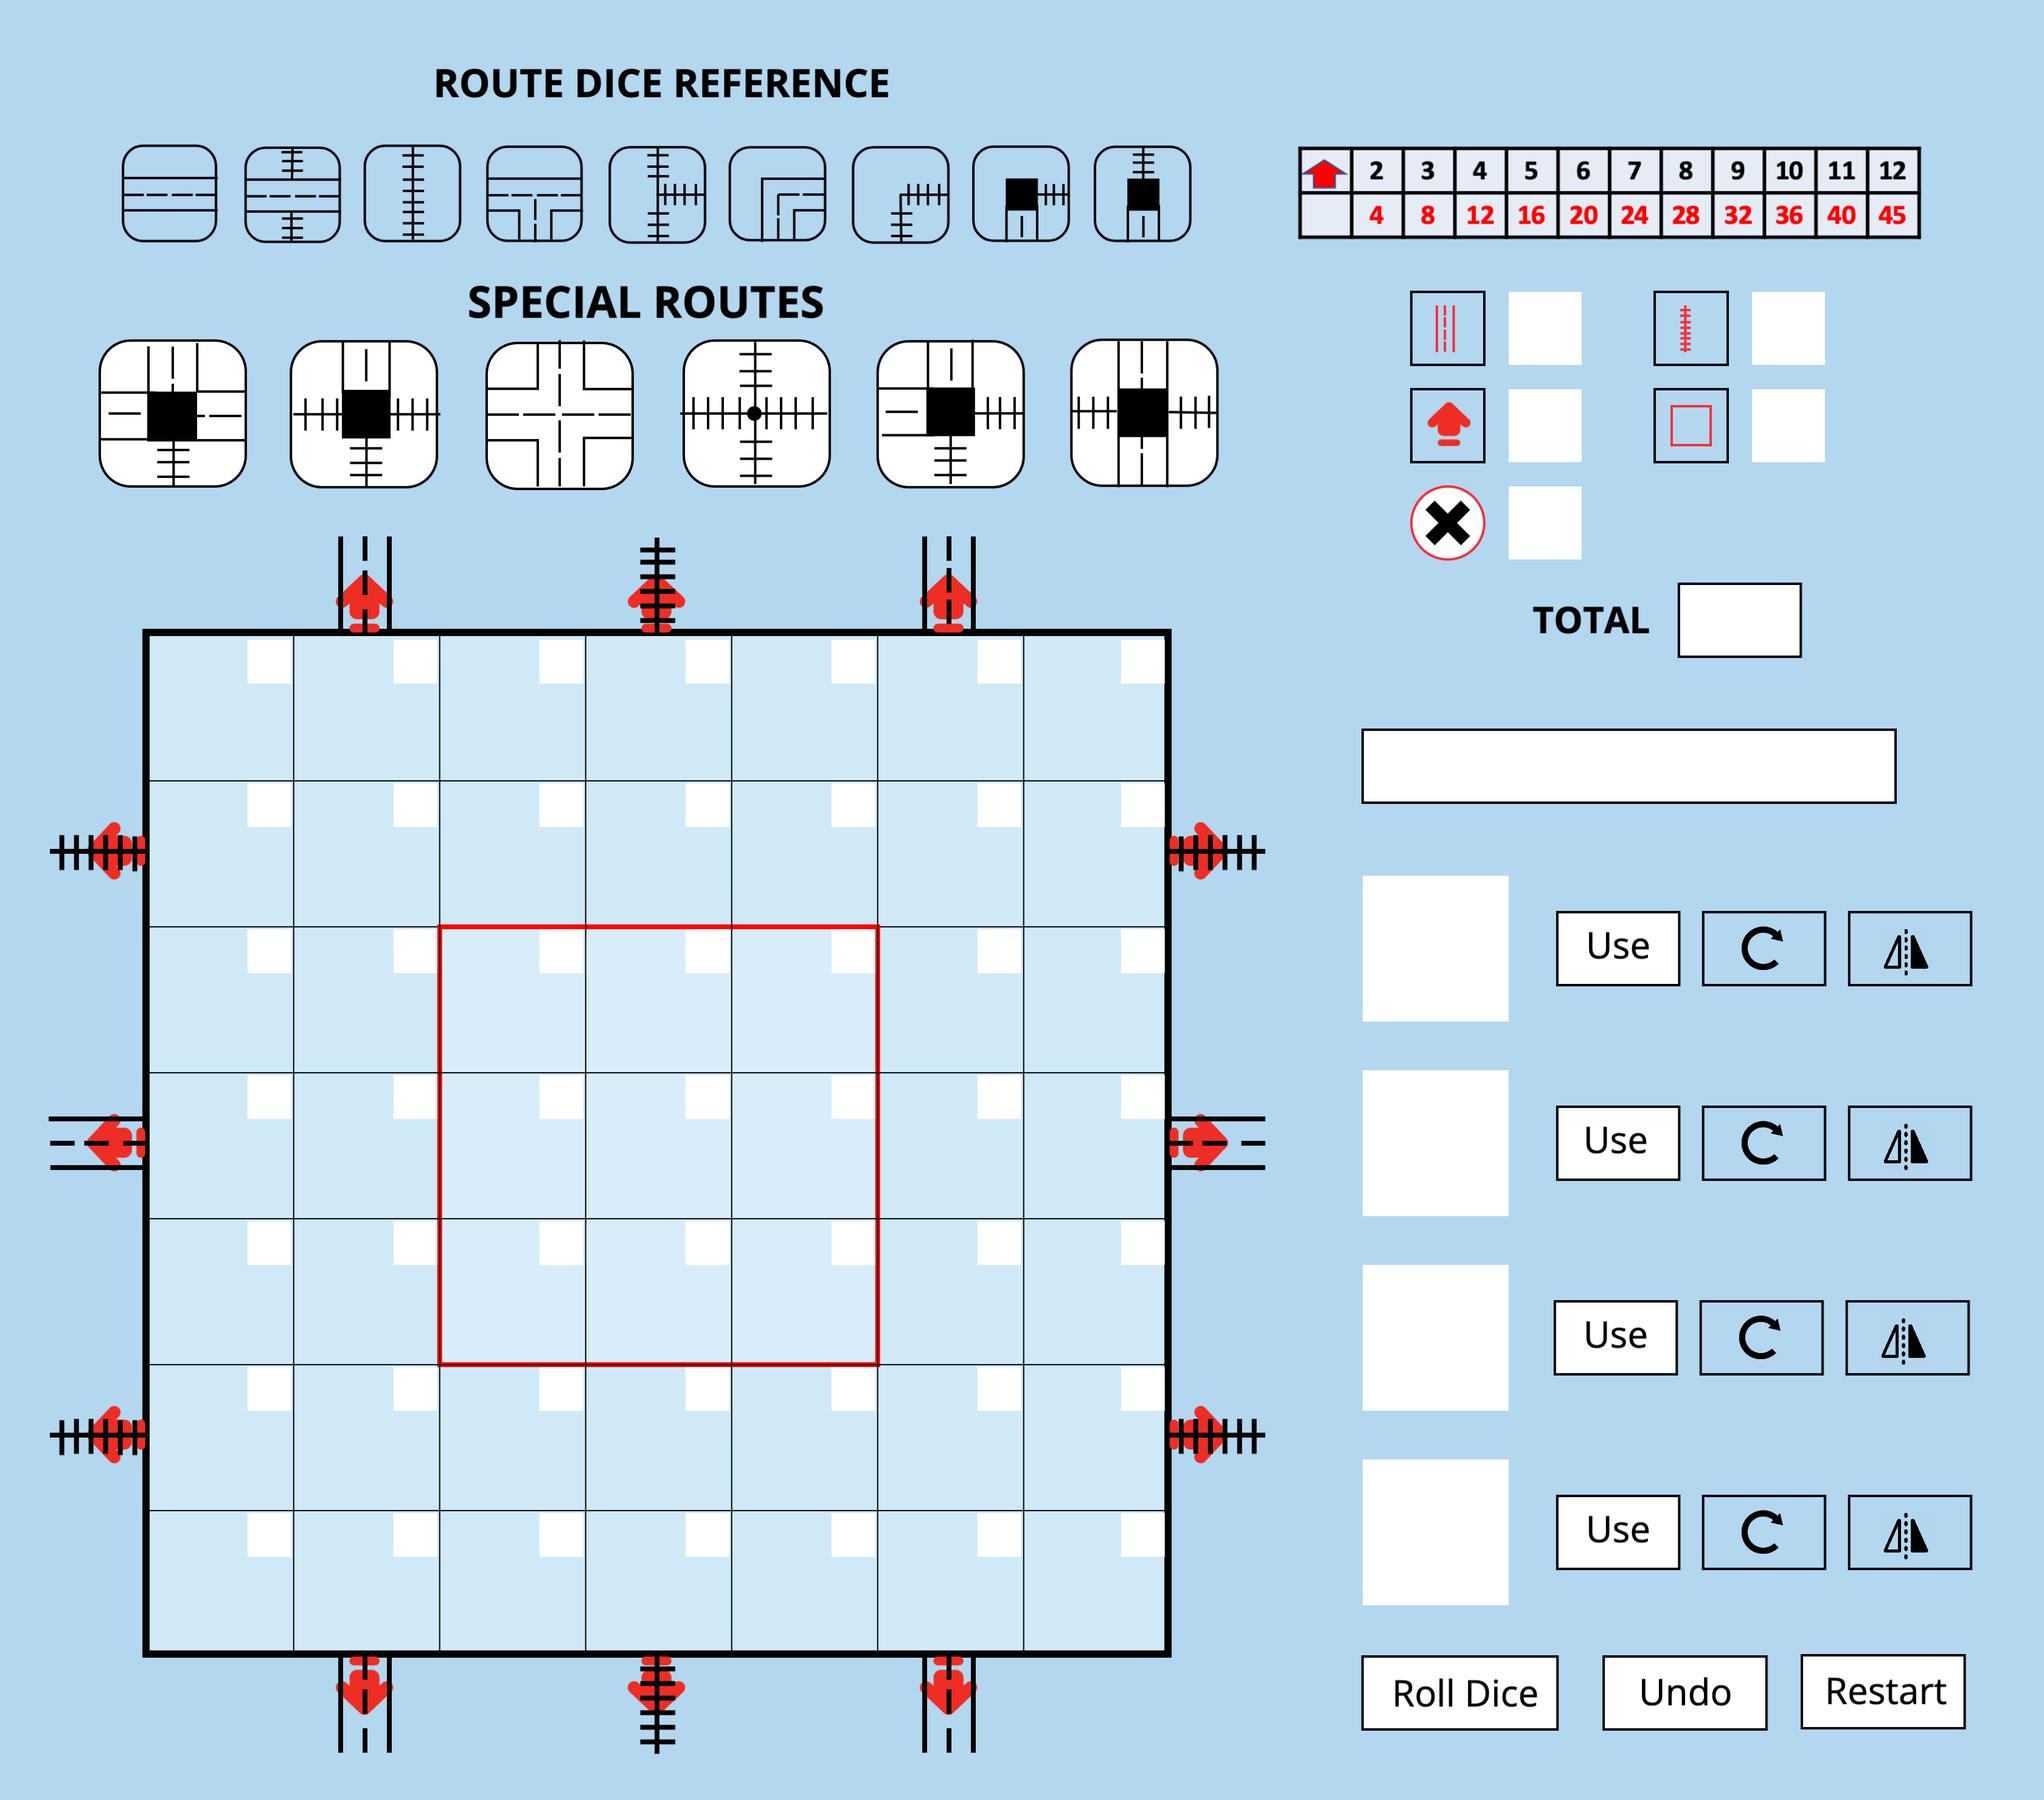
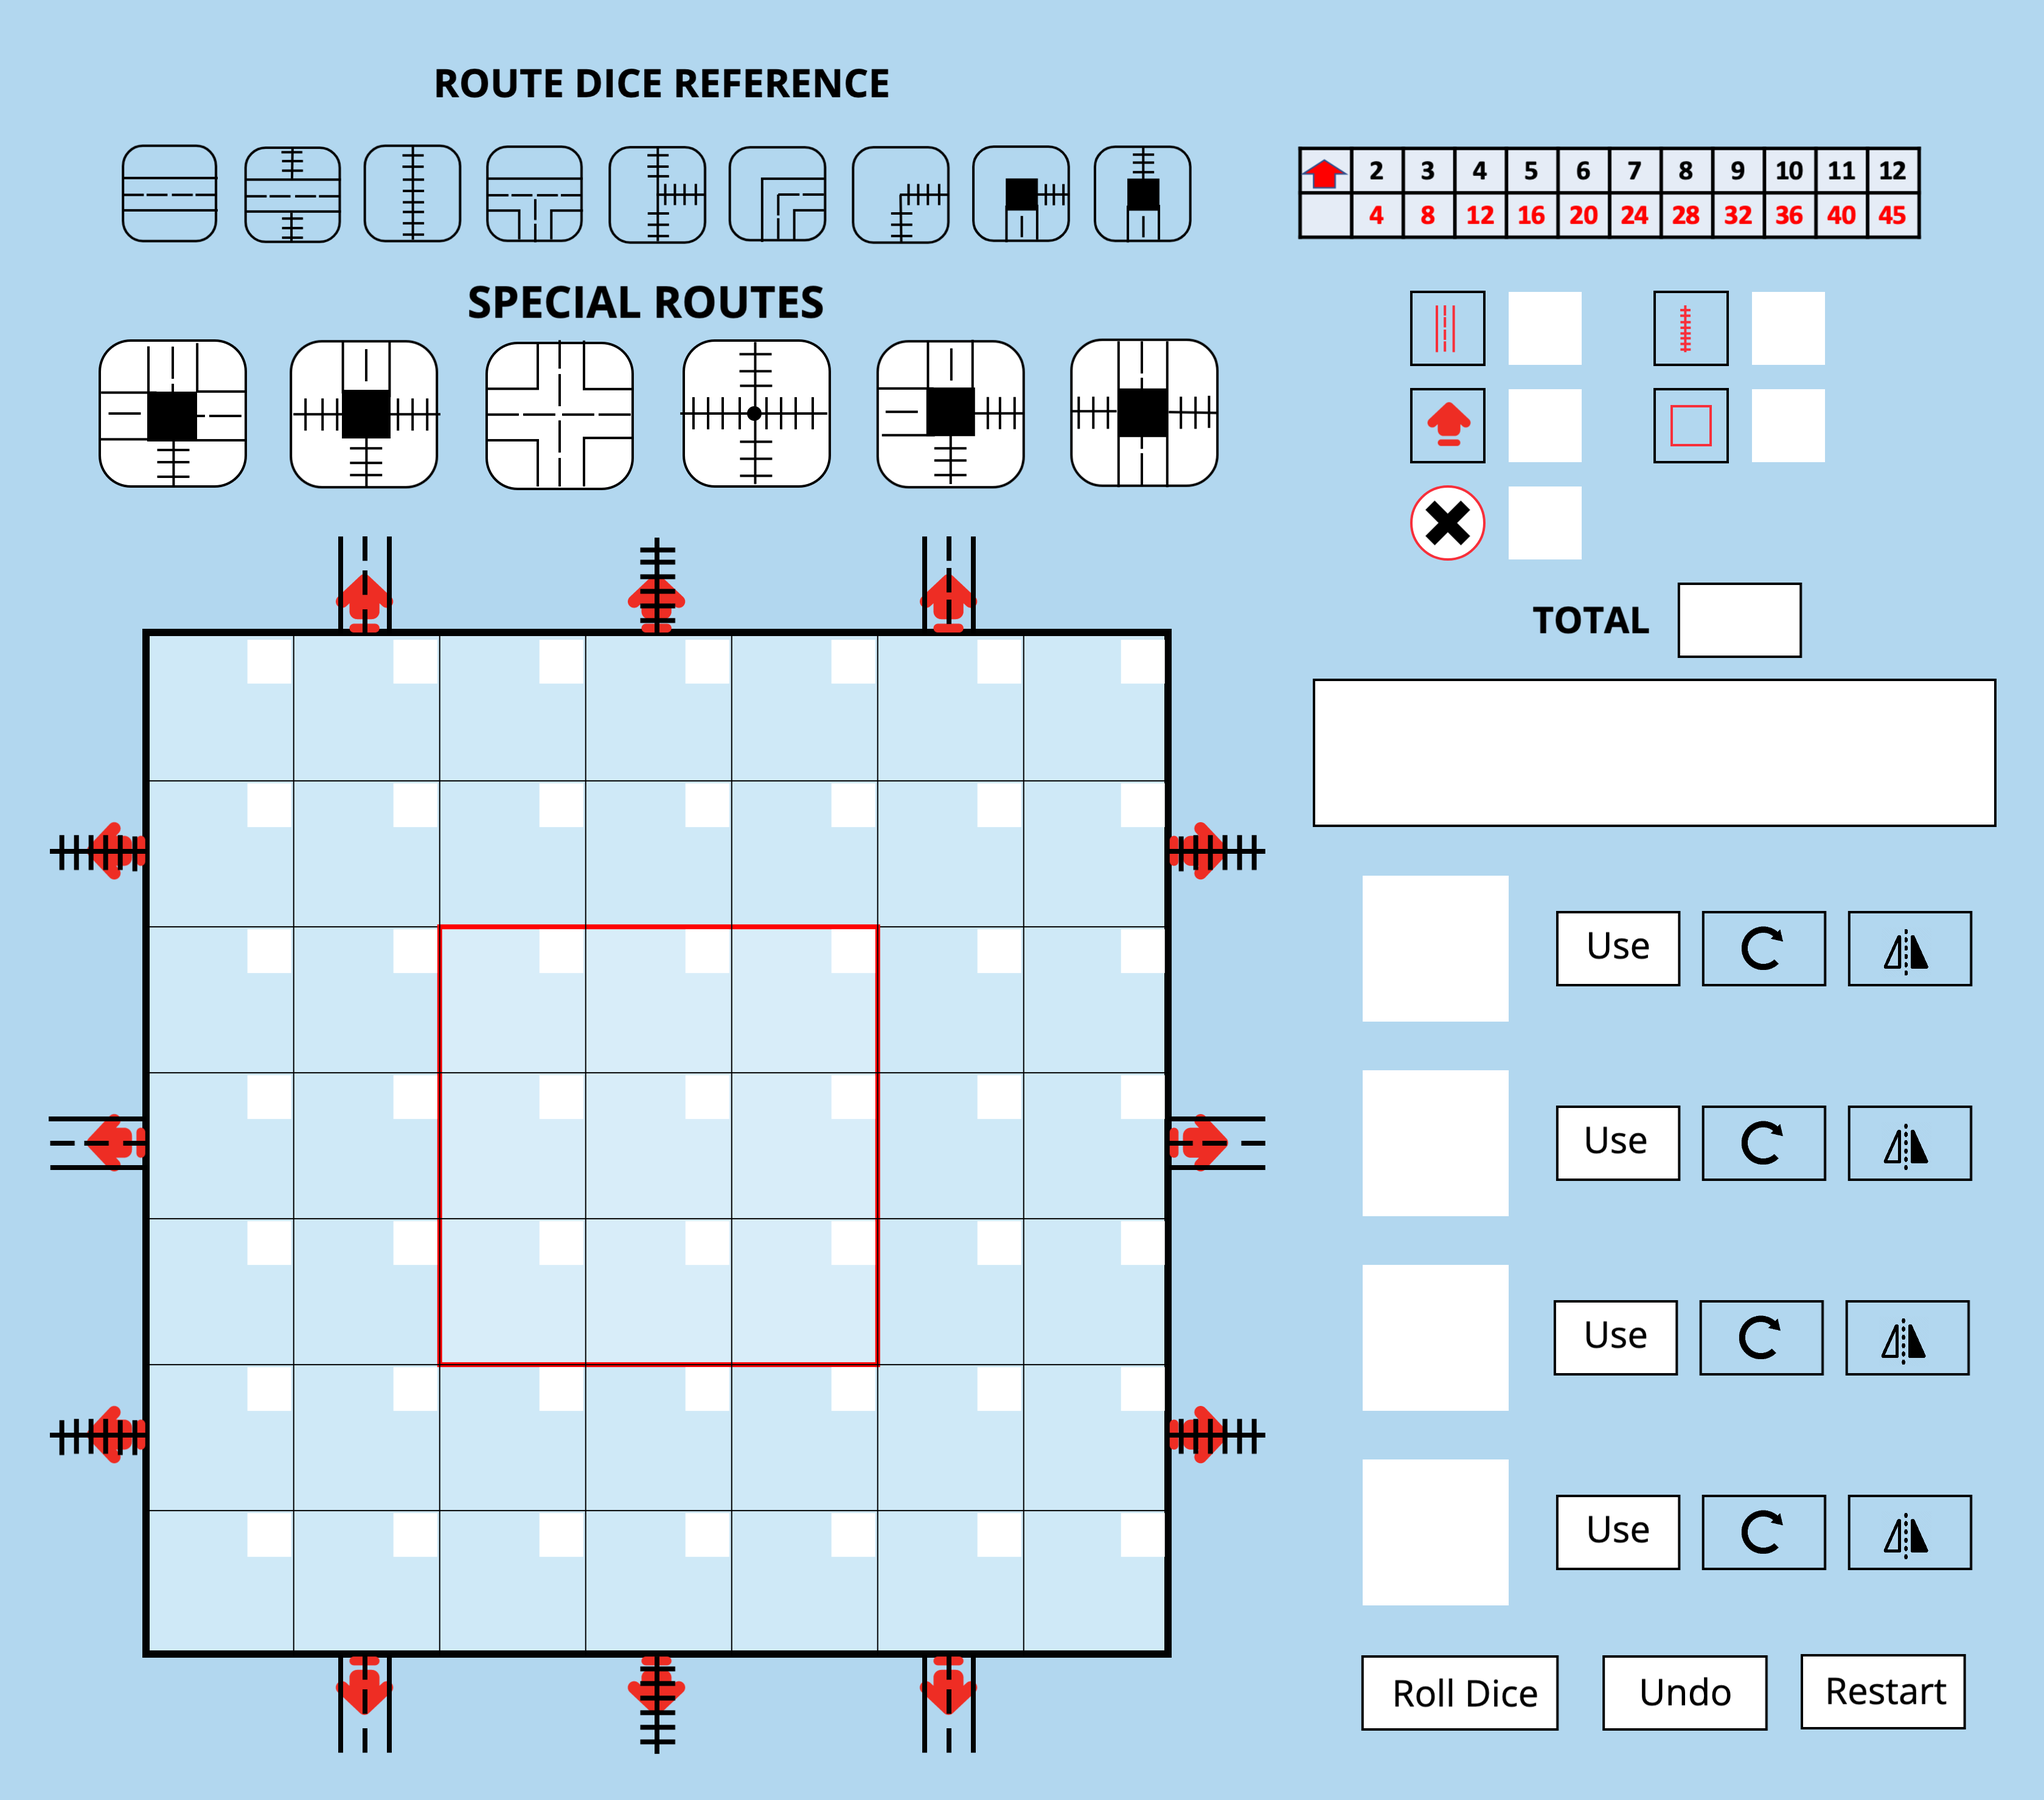
Adding Undo Functionality with Color Scheme for Use

Changed region(s): [[0.625, 0.373, 1.0, 0.4662]]

diff --git a/main_gameplay.py b/main_gameplay.py
@@ -13,7 +13,7 @@ FPS = 60 #Screen's Update Frequency
 WIN = pygame.display.set_mode((WIDTH, HEIGHT))
 pygame.display.set_caption("Railroad Ink")
 
-game_board = GameBoard(60,260,420)
+GB = GameBoard(60,260,420)
 
 
 def update_board(square_on_board, board_dice):
@@ -24,33 +24,87 @@ def update_board(square_on_board, board_dice):
 	for die in board_dice.get_dice():
 		top_face = die.get_top_face()
 		if top_face is not None:
-			die_face_img = pygame.transform.rotate(top_face.img, top_face.get_state()[0])
-			if top_face.get_state()[1] == True:
-				die_face_img = pygame.transform.flip(die_face_img,flip_x = True, flip_y=False)
-			WIN.blit(die_face_img, die.get_origin())
+			WIN.blit(top_face.get_image(), die.get_origin())
+		if die.get_use() == True:
+			x,y,_,_ = GB.button_types["use{}".format(die.dice_num)]
+			WIN.blit(USE_SELECTED, (x,y))
+
+	if GB.temp_die is not None:
+		x, y, _, _ = GB.button_types["use{}".format(GB.temp_die.dice_num)]
+		WIN.blit(USE_CAN_SELECT, (x, y))
+
+	for grid_square in GB.grid_squares:
+		if grid_square.top_face is not None:
+			WIN.blit(grid_square.top_face.get_image(), grid_square.origin)
+
+	for i in range(len(GB.stack)):
+		elem_die, selected_square = GB.stack[i]
+		WIN.blit(elem_die.get_top_face().get_image(), selected_square.origin)
 
 	pygame.display.update()
 
 
-def do_action_on_button_press(button_type):
-	if button_type == "Roll":
-		if game_board.dice.allNone():
-			game_board.dice.roll()
-	elif button_type == "Undo":
-		pass
-	elif button_type == "Restart":
-		pass
-	elif "use" in button_type:
-		die_num = int(button_type[-1])
-		pass
-	elif "rotate" in button_type:
-		die_num = int(button_type[-1])
-		game_board.dice.get_dice()[die_num - 1].rotate_face()
-	elif "mirror" in button_type:
-		die_num = int(button_type[-1])
-		game_board.dice.get_dice()[die_num - 1].mirror_face()
+def do_action_on_button_press(button_type, x, y):
+	if GB.use_pressed == True:
+		if button_type == "grid_square":
+			selected_square = GB.get_square_under_mouse(*pygame.mouse.get_pos())
+			if GB.temp_die is not None:
+				if GB.temp_die.get_use() is False:
+					GB.temp_die.set_use(True)
+					GB.stack.append((GB.temp_die, selected_square))
+				else:
+					print("Die already used")
+
+		GB.use_pressed = False
+		GB.temp_die = None
+
 	else:
-		pass
+		if button_type == "Roll":
+			if (GB.round_number == 0) or (len(GB.stack) == 4):
+				while(len(GB.stack) > 0):
+					temp_die, selected_square = GB.stack.pop()
+					selected_square.set_top_face(temp_die.get_top_face())
+					selected_square.make_top_face_permanent()
+				GB.stack.clear()
+				GB.dice.roll()
+				GB.round_number += 1
+				for grid_square in GB.grid_squares:
+					if (grid_square.top_face is not None) and (grid_square.is_permanent == False):
+						grid_square.is_permanent = True
+
+			elif button_type == "Restart":
+				pass
+
+			else:
+				print("Some Dice are unused, use before Rolling")
+
+		if GB.round_number >= 1:
+			if button_type == "Undo":
+				if len(GB.stack) > 0:
+					die, _ = GB.stack.pop()
+					die.set_use(False) #Can be used again because of the undo action
+				for grid_square in GB.grid_squares:
+					if (grid_square.top_face is not None) and (grid_square.is_permanent == False):
+						grid_square.top_face = None
+
+			elif "use" in button_type:
+				GB.use_pressed = True
+				die_num = int(button_type[-1])
+				GB.temp_die = GB.dice.get_dice()[die_num - 1]
+
+			elif "rotate" in button_type:
+				die_num = int(button_type[-1])
+				GB.dice.get_dice()[die_num - 1].rotate_face()
+
+			elif "mirror" in button_type:
+				die_num = int(button_type[-1])
+				GB.dice.get_dice()[die_num - 1].mirror_face()
+
+			else:
+				GB.use_pressed = False
+				GB.temp_die = None
+
+
 
 def main():
 	clock = pygame.time.Clock()
@@ -65,12 +119,19 @@ def main():
 			if event.type == pygame.MOUSEBUTTONDOWN:
 				mouse_presses = pygame.mouse.get_pressed()
 				if mouse_presses[0]:
-					button_type = game_board.get_button_type(*pygame.mouse.get_pos())
+					x,y = pygame.mouse.get_pos()
+					button_type = GB.get_button_type(x,y)
 					if button_type is not None:
-						do_action_on_button_press(button_type)
+						do_action_on_button_press(button_type, x, y)
+					else:
+						GB.use_pressed = False
+						GB.temp_die = None
 
-		square_on_board = game_board.get_square_under_mouse(*pygame.mouse.get_pos())
-		update_board(square_on_board, game_board.dice)
+
+		print(GB.temp_die)
+		print(GB.use_pressed)
+		square_on_board = GB.get_square_under_mouse(*pygame.mouse.get_pos())
+		update_board(square_on_board, GB.dice)
 
 
 if __name__ == "__main__":

diff --git a/dice.py b/dice.py
@@ -13,8 +13,11 @@ class DieFace():
     def mirror(self):
         self.is_mirrored = not self.is_mirrored
 
-    def get_state(self):
-        return self.rotation_angle, self.is_mirrored
+    def get_image(self):
+        die_face_img = pygame.transform.rotate(self.img, self.rotation_angle)
+        if self.is_mirrored == True:
+            die_face_img = pygame.transform.flip(die_face_img, flip_x=True, flip_y=False)
+        return die_face_img
 
 
 class Die(pygame.sprite.Sprite):
@@ -30,10 +33,7 @@ class Die(pygame.sprite.Sprite):
 
     def roll(self):
         random_face = random.randint(0,5)
-        if self.current_top_face != None:
-            print("The Round is not finished, use the connection shown in Dice {} first".format(self.dice_num))
-        else:
-            self.current_top_face = DieFace(self.faces[random_face])
+        self.current_top_face = DieFace(self.faces[random_face])
 
     def rotate_face(self):
         if self.current_top_face is not None:
@@ -60,6 +60,12 @@ class Die(pygame.sprite.Sprite):
         else:
             return (560, 600)
 
+    def get_use(self):
+        return self.is_used
+
+    def set_use(self, bool_val):
+        self.is_used = bool_val
+
 class Dice():
     def __init__(self, num_dice = 4,dice_types = [1,1,1,2]):
         self.dice_group = []
@@ -67,6 +73,7 @@ class Dice():
         self.dice_types = dice_types
 
     def roll(self):
+        self.dice_group = []
         for die_num, die_type in zip(list(range(1, self.num_dice+1)), self.dice_types):
             temp_die = Die(die_num, die_type)
             self.dice_group.append(temp_die)
@@ -76,11 +83,5 @@ class Dice():
 
     def get_dice(self):
         return self.dice_group
-
-    def allNone(self):
-        for die in self.dice_group:
-            if die.current_top_face != None:
-                return False
-        return True
 
 

diff --git a/board.py b/board.py
@@ -1,12 +1,24 @@
 import pygame
 from dice import Dice
 from buttons import Button
+from collections import deque
 
 class GridSquare(pygame.sprite.Sprite):
     def __init__(self, i, j, game_board):
         super(GridSquare, self).__init__()
         self.origin = (game_board.origin[0] + i*60, game_board.origin[1] + j*60)
         self.square = pygame.Rect(self.origin[0], self.origin[1], game_board.side_length//7, game_board.side_length//7)
+        self.top_face = None
+        self.is_permanent = False
+
+    def set_top_face(self, top_face):
+        if not self.is_permanent:
+            self.top_face = top_face
+
+    def make_top_face_permanent(self):
+        self.is_permanent = True
+
+
 
 class GameBoard:
     def __init__(self, origin_x, origin_y, side_length):
@@ -35,8 +47,7 @@ class GameBoard:
         for button_type, button in self.button_types.items():
             self.Buttons.add(Button(button, button_type))
 
-        self.round_number = 1
-        self.round_in_progress = False
+        self.round_number = 0
         self.score = 0
 
         self.grid_squares = pygame.sprite.Group()
@@ -45,6 +56,10 @@ class GameBoard:
                 self.grid_squares.add(GridSquare(i, j, self))
 
         self.dice = Dice()
+        self.stack = deque([])
+
+        self.use_pressed = False
+        self.temp_die = None
 
 
     def get_square_under_mouse(self, x, y):
@@ -59,6 +74,10 @@ class GameBoard:
         for button in self.Buttons:
             if button.is_pressed(x,y):
                 return button.get_name()
+
+        for grid_square in self.grid_squares:
+            if grid_square.square.collidepoint(x,y):
+                return "grid_square"
 
 
 

diff --git a/loads/load_images.py b/loads/load_images.py
@@ -58,3 +58,5 @@ SP_JUNC_6 = pygame.transform.smoothscale(
 
 #Load the square selector
 SQUARE_SELECT = pygame.transform.smoothscale(pygame.image.load(os.path.join('Images', 'square_select.png')), (60, 60))
+USE_SELECTED = pygame.transform.smoothscale(pygame.image.load(os.path.join('Images', 'use_selected.png')), (50, 30))
+USE_CAN_SELECT = pygame.transform.smoothscale(pygame.image.load(os.path.join('Images', 'use_can_select.png')), (50, 30))
